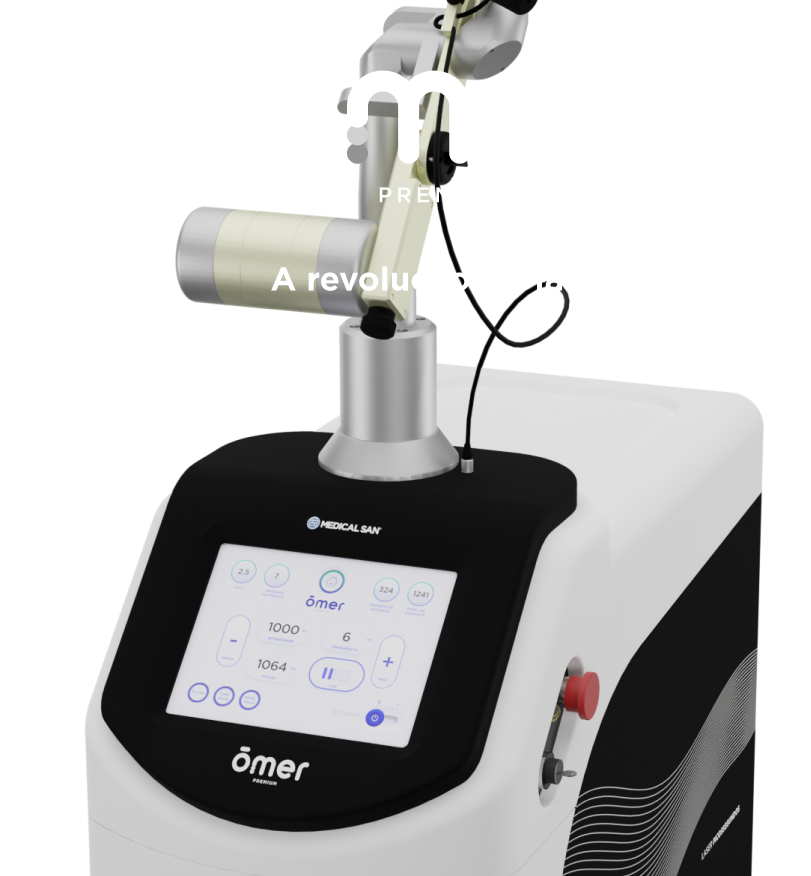
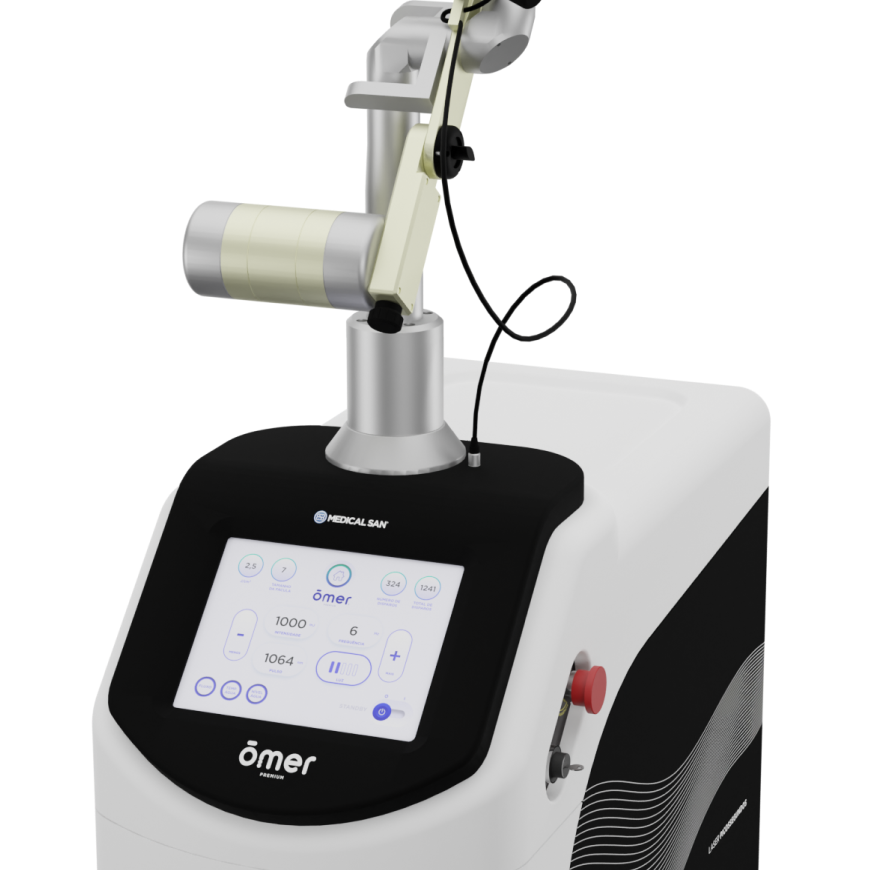
omer-premium finalizado

diff --git a/tema/assets/css/custom.css b/tema/assets/css/custom.css
@@ -1126,6 +1126,16 @@ html .page-blog .block-with-2-post h2 a.botao-5 {
     background-position: center bottom;
 }
 
+html .mobile.banner-mobile-test-fundo.pos-2 {
+    position: absolute;
+    top: 0;
+    height: 100%;
+    border: none;
+    background-position: center top;
+    width: 100%;
+    background-size: contain;
+}
+
 .banner-mobile-test-fundo.modelo-2 {
     height: 600px;
 }

diff --git a/tema/templates/components/banner-principal-produtos-v1/style.css b/tema/templates/components/banner-principal-produtos-v1/style.css
@@ -14,7 +14,10 @@
     background-repeat: no-repeat;
     background-position: bottom;
 }
-
+.imagem-fundo-v1.pos-2 {
+    position: absolute;
+    top: 0;
+}
 .imagem-frente-v1 {
     width: 790px;
     height: 82vh;

diff --git a/tema/templates/produtos/omer-premium/banner-principal.php b/tema/templates/produtos/omer-premium/banner-principal.php
@@ -1,2 +1,40 @@
+<link rel="stylesheet" href="<?php _e(asset(sprintf("../templates/components/%s/style.css", "banner-principal-produtos-v1"))); ?>">
 
-<?php do_action("BannerPrincipalProdutosV1Component"); ?>
+<div class="banner-content-single-produtos">
+
+    <div class="banner-principal-v1 desktop">
+        <div class="imagem-fundo-v1" style="background-image:url(<?php echo asset(sprintf("../templates/produtos/%s/images/banner-principal-fundo.png?v1", get_post_field('post_name', get_post()))); ?>);"></div>
+
+        <div class="imagem-frente-v1 js-scroll fade-in-bottom scrolled" style="background-image:url(<?php echo asset(sprintf("../templates/produtos/%s/images/banner-principal-v1.png?v1", get_post_field('post_name', get_post()))); ?>);"></div>
+
+        <div class="imagem-fundo-v1 pos-2 js-scroll fade-in-bottom scrolled" style="background-image:url(<?php echo asset(sprintf("../templates/produtos/%s/images/banner-principal-v1-2.png?v1", get_post_field('post_name', get_post()))); ?>);"></div>
+
+        <div class="imagem-frente-v1 js-scroll fade-in-bottom scrolled" style="background-image:url(<?php echo asset(sprintf("../templates/produtos/%s/images/banner-principal-v1-3.png?v1", get_post_field('post_name', get_post()))); ?>);"></div>
+
+
+    </div>
+
+    <div class="mobile banner-mobile-test-fundo <?php _e($args["class"] ?? ''); ?> " style="background-image:url(<?php echo asset(sprintf("../templates/produtos/%s/images/banner-principal-fundo-mobile.png?v1", get_post_field('post_name', get_post()))); ?>);">
+
+        <div class="banner-mobile-test fade-in-bottom scrolled" style="background-image:url(<?php echo asset(sprintf("../templates/produtos/%s/images/banner-principal-mobile-v1.png", get_post_field('post_name', get_post()))); ?>);"></div>
+
+
+        <div class="mobile banner-mobile-test-fundo pos-2 <?php _e($args["class"] ?? ''); ?> " style="background-image:url(<?php echo asset(sprintf("../templates/produtos/%s/images/banner-principal-fundo-mobile-v1.png?v1", get_post_field('post_name', get_post()))); ?>);"></div>
+
+        <div class="banner-mobile-test fade-in-bottom scrolled" style="background-image:url(<?php echo asset(sprintf("../templates/produtos/%s/images/banner-principal-mobile.png", get_post_field('post_name', get_post()))); ?>);">
+
+            <ul id="breadcrumbs" class="breadcrumb">
+                <li><a href="<?php _e(home_url("produtos")); ?>">Tecnologias</a></li>
+                <li class="separator"> &gt; </li>
+                <li><span><?php the_title(); ?></span></li>
+            </ul>
+
+        </div>
+
+
+
+    </div>
+
+
+
+</div>
